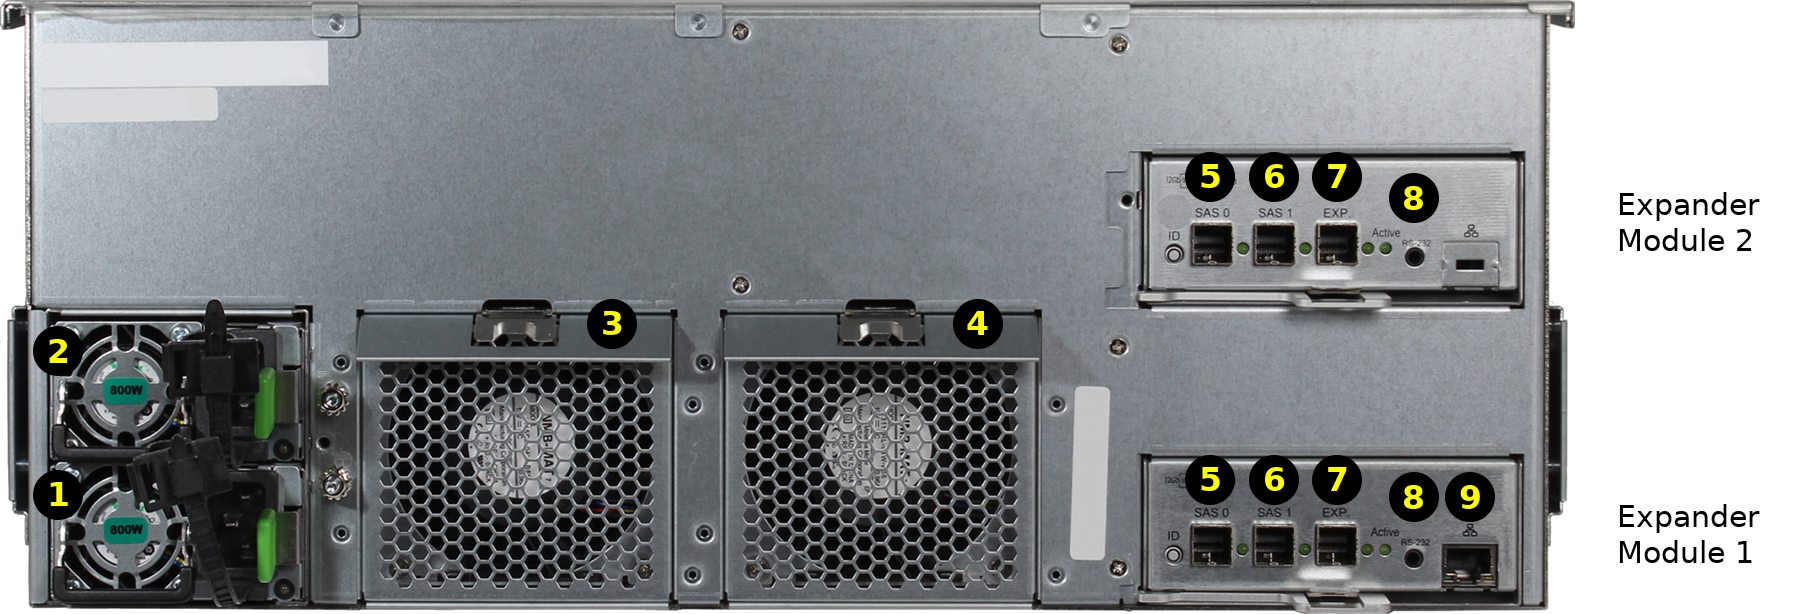
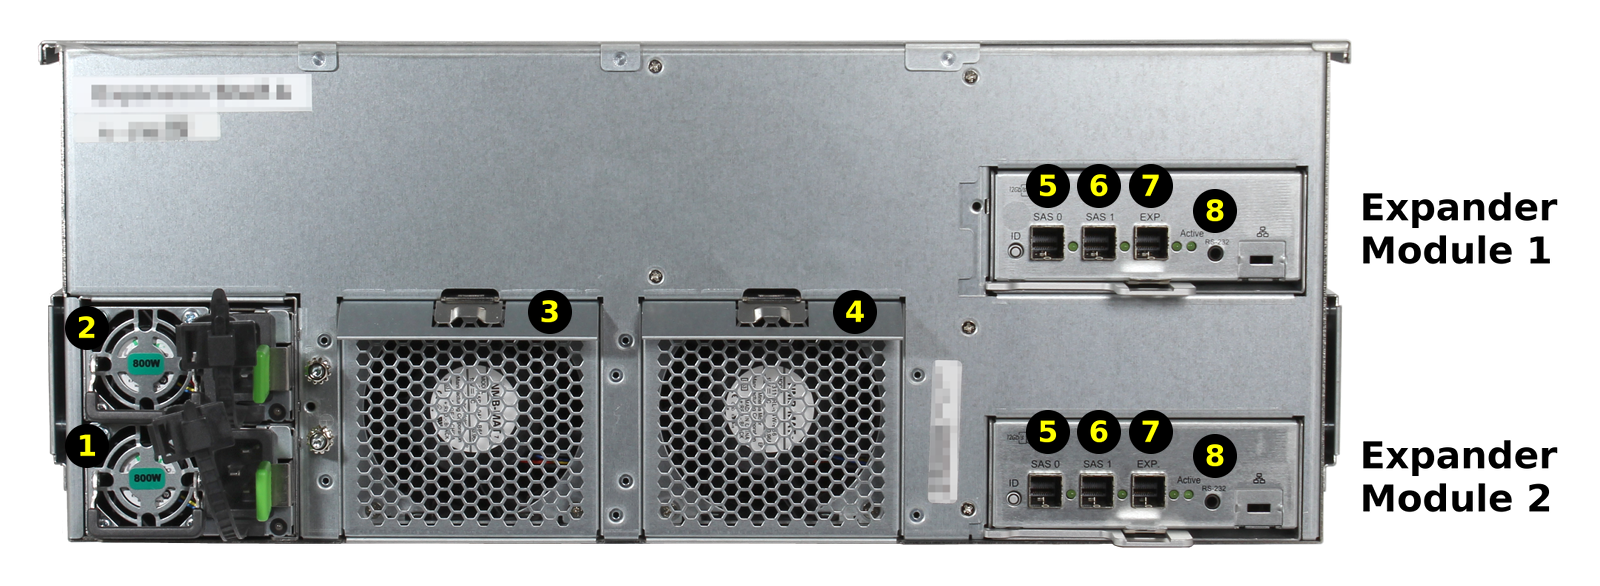
Update captioned back image of ES24

diff --git a/userguide/snippets/es24.rst b/userguide/snippets/es24.rst
@@ -91,8 +91,6 @@ configuration. The connectors and features on each module are:
    +------------------------------------------------------+
    | 8: Serial port                                       |
    +------------------------------------------------------+
-   | 9: Network management port (Expansion Module 1 only) |
-   +------------------------------------------------------+
 
 
 .. index:: Rail Kit Assembly
